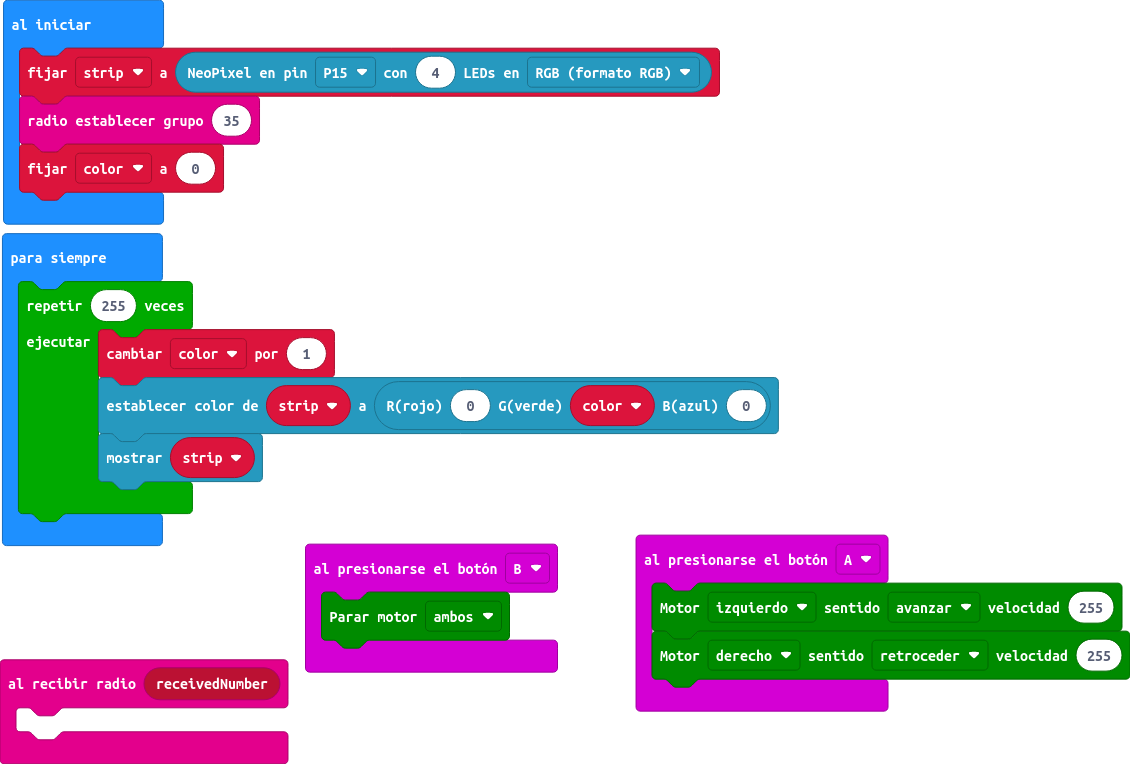
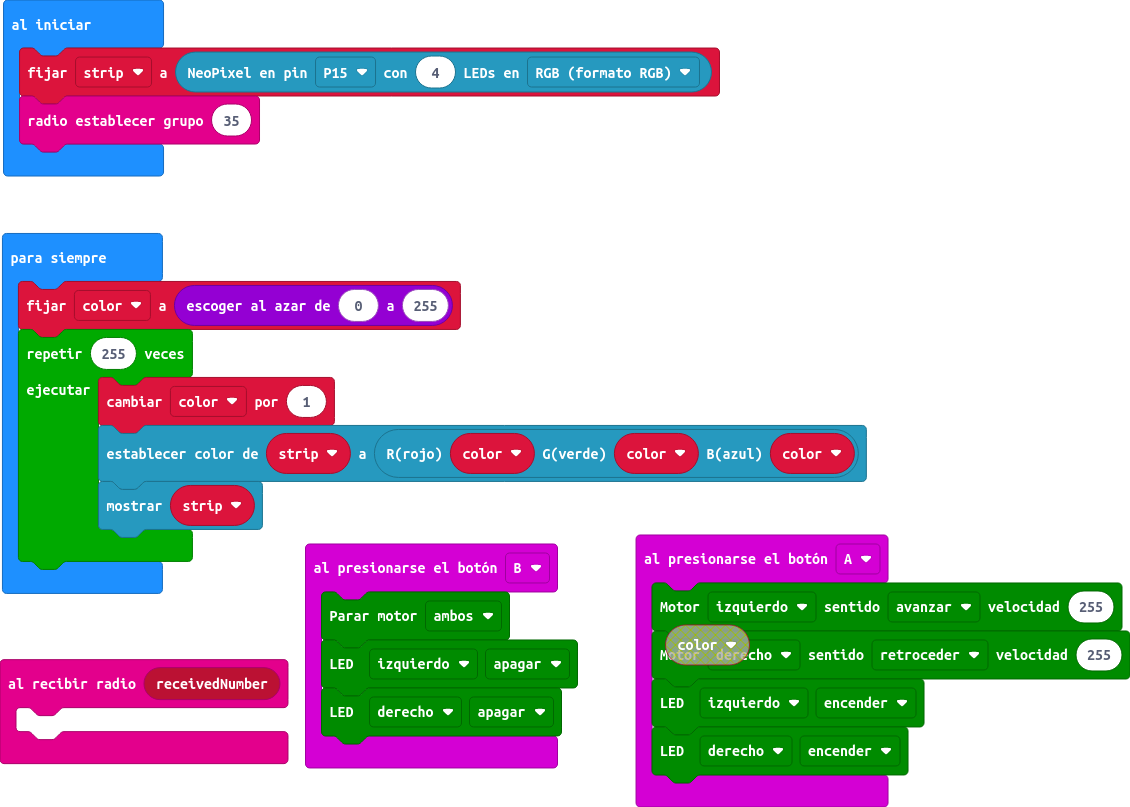
Actualizar main.blocks, main.ts

Changed region(s): [[0.0, 0.0301, 0.7743, 0.7526], [0.0, 0.6623, 0.5265, 1.0], [0.5575, 0.6623, 1.0, 1.0]]

diff --git a/main.ts b/main.ts
@@ -4,17 +4,22 @@ radio.onReceivedNumber(function (receivedNumber) {
 input.onButtonPressed(Button.A, function () {
     maqueen.motorRun(maqueen.Motors.M1, maqueen.Dir.CW, 255)
     maqueen.motorRun(maqueen.Motors.M2, maqueen.Dir.CCW, 255)
+    maqueen.writeLED(maqueen.LED.LEDLeft, maqueen.LEDswitch.turnOn)
+    maqueen.writeLED(maqueen.LED.LEDRight, maqueen.LEDswitch.turnOn)
 })
 input.onButtonPressed(Button.B, function () {
     maqueen.motorStop(maqueen.Motors.All)
+    maqueen.writeLED(maqueen.LED.LEDLeft, maqueen.LEDswitch.turnOff)
+    maqueen.writeLED(maqueen.LED.LEDRight, maqueen.LEDswitch.turnOff)
 })
+let color = 0
 let strip = neopixel.create(DigitalPin.P15, 4, NeoPixelMode.RGB)
 radio.setGroup(35)
-let color = 0
 basic.forever(function () {
+    color = randint(0, 255)
     for (let index = 0; index < 255; index++) {
         color += 1
-        strip.showColor(neopixel.rgb(0, color, 0))
+        strip.showColor(neopixel.rgb(color, color, color))
         strip.show()
     }
 })
